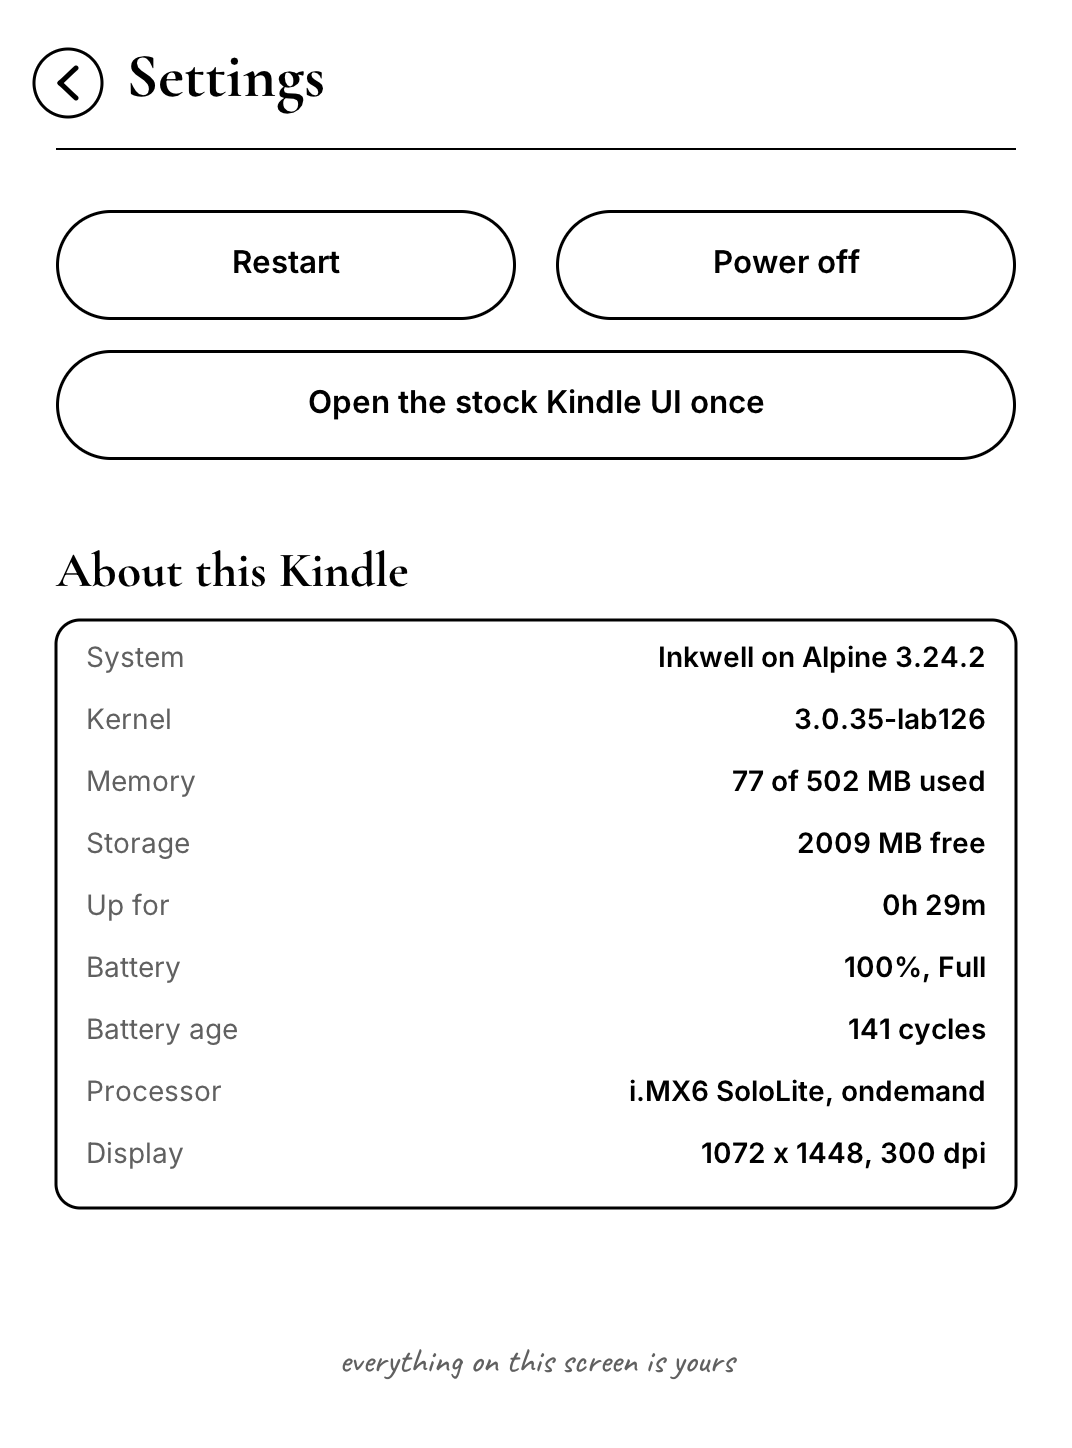
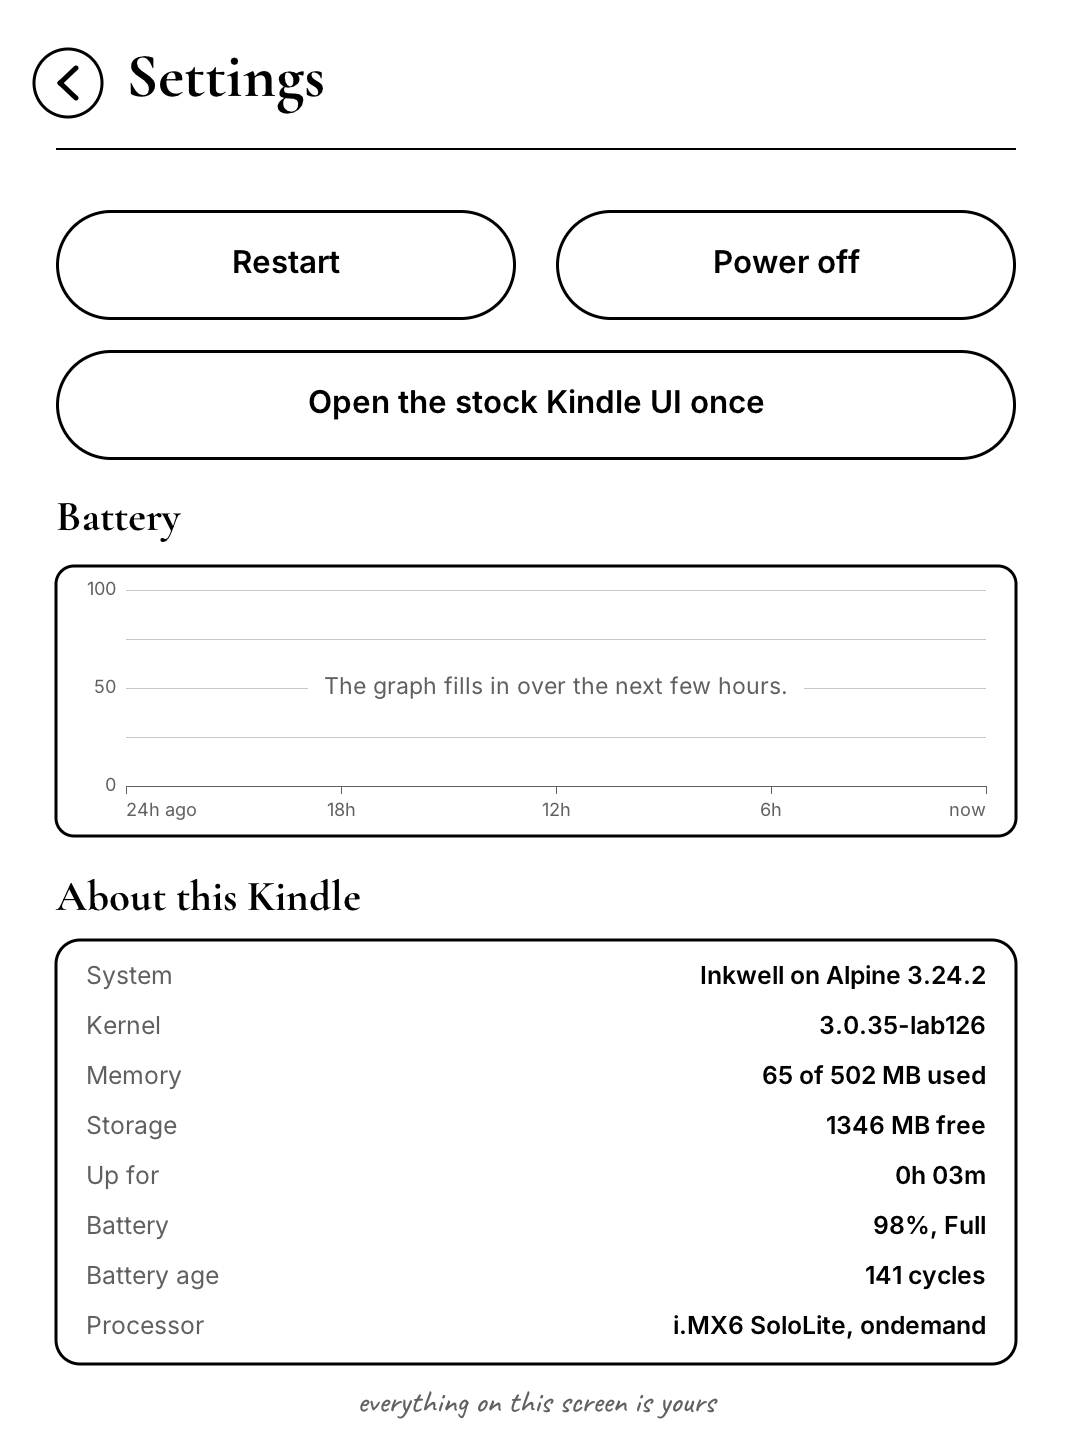
docs: describe Books, arXiv, coding with Quill and the polish

diff --git a/README.md b/README.md
@@ -2,9 +2,9 @@
 
 Inkwell is a small Linux system of its own for the jailbroken Kindle Paperwhite 3. Amazon's bootloader and kernel still start the device, and everything after that is replaced: the home screen, the apps, Wi-Fi, USB networking and SSH all come from an Alpine Linux userspace built for the e-ink panel.
 
-It has a chatbot called Quill that runs a language model on the Kindle itself with no internet. It also plays Doom, chess and the first version of Minecraft, and it has a terminal, a reading web browser, notes, a sketchpad and a falling-block game called TriKing. You install it by copying one folder to the Kindle and tapping one item in the library, and one more tap brings the normal Kindle back.
+It has a chatbot called Quill that runs a language model on the Kindle itself with no internet, and in the terminal Quill writes and runs code. It reads EPUB and PDF books, keeps arXiv papers for reading offline, and plays Doom, chess and the first version of Minecraft. It also has a reading web browser, notes, a sketchpad and a falling-block game called TriKing. You install it by copying one folder to the Kindle and tapping one item in the library, and one more tap brings the normal Kindle back.
 
-<p align="center"><img src="docs/images/home.png" width="380" alt="The Inkwell home screen with a serif clock, nine app icons and a frontlight slider"></p>
+<p align="center"><img src="docs/images/home.png" width="380" alt="The Inkwell home screen with a serif clock, thirteen app icons and a frontlight slider"></p>
 
 These clips are from a real Kindle Paperwhite 3. Some are sped up, and each caption says by how much.
 
@@ -21,22 +21,29 @@ These clips are from a real Kindle Paperwhite 3. Some are sped up, and each capt
 ## What is on it
 
 - **Quill** is a chatbot that runs SmolLM2 through llama.cpp on the Kindle's own processor. It writes its answer word by word at about 1.7 words per second with the quick model, and a slower smart model can be added. Nothing leaves the device.
+- **Books** reads EPUB, PDF, MOBI, FB2 and text files from the `documents` folder through MuPDF. Books reflow to eight font sizes, and PDFs are shown with their margins trimmed, or in a Columns mode that cuts a two-column paper into strips the width of the screen. You tap the right of the page to go on and the left to go back. The top opens a page slider, the table of contents and bookmarks, and every book reopens on the page where you left it.
+- **arXiv** fetches a paper by its number, such as `1706.03762`, and shows its title, authors and abstract. **Save offline** downloads the PDF to the `arxiv` folder and opens it in Books, and saved papers stay listed for reading without Wi-Fi.
 - **Doom** is the original shareware episode. The game is drawn into the top of the screen, dithered to black and white so each frame can use the fastest refresh, and played with an on-screen d-pad, Fire and Use buttons.
 - **Minecraft** is rd-132211, the first version of Minecraft from 2009, through [rdgeneric](https://github.com/pragyaangaur/Can-It-Run-Minecraft). You can walk, dig and place blocks.
 - **TriKing** is a falling-block game where every piece has three cells. You tap the board to rotate, drag to move and flick down to drop.
 - **Browser** fetches a page, keeps the headings, paragraphs and links, and lays them out as pages you turn. It searches with Bing.
 - **Chess** plays against Inkwell's own engine, a small alpha-beta search written for this processor. Easy answers at once, Medium thinks for up to two seconds and Hard for up to six. You can play either colour and take moves back, and the game is saved to the `chess` folder, so you can carry on later.
-- **Terminal** runs a shell on the Kindle with an extra row of keys for Esc, Tab, Ctrl and the arrows. It handles full-screen programs such as `vi` and `top`, and `ssh` connects to the computer on the other end of the USB cable. Hiding the keyboard shows the whole screen.
+- **Terminal** runs a shell on the Kindle with an extra row of keys for Esc, Tab, Ctrl and the arrows. It handles full-screen programs such as `vi` and `top`, and `ssh` connects to the computer on the other end of the USB cable. Hiding the keyboard shows the whole screen. Python 3 is installed.
+- **Quill in the terminal.** Typing `quill` there starts a coding assistant. You ask for a program in plain words, `/run` runs the code from the last answer with Python or `sh`, `/fix` sends its error back for a corrected version, `/save` writes it to a file and `/read` shows Quill one of your files. It uses Qwen2.5 Coder 0.5B when that model is installed, which writes about half a word per second, so a short program takes a few minutes.
 - **Notes** saves plain text files to the `notes` folder on the Kindle's drive, so you can read them on a computer.
 - **Sketch** is a drawing pad that saves pictures to the `sketches` folder.
 - **Wi-Fi** scans for networks and joins them with the on-screen keyboard.
-- **Settings** restarts or powers off the Kindle, opens the normal Kindle UI once, and shows the battery, memory and storage.
+- **Settings** restarts or powers off the Kindle, opens the normal Kindle UI once, draws the battery over the last day, and shows memory and storage.
 
-The home screen also has a clock, the date, the battery and a frontlight slider. The Kindle sleeps after 15 minutes on the home screen or when you press the power button there, and it shows a night sky while it sleeps.
+The home screen also has a clock, the date, the battery and a frontlight slider. To move an app, drag it onto another place. The Kindle sleeps after 15 minutes without a touch in any app, or when you press the power button on the home screen or in Books, and it shows a night sky while it sleeps. When it wakes, the app is just as you left it. With Wi-Fi on, the clock sets itself from the network.
 
-| Chess | Terminal |
-| :---: | :---: |
-| <img src="docs/images/chess.png" width="300" alt="A chess game in the opening, with Inkwell having played Nc6"> | <img src="docs/images/terminal.png" width="300" alt="The terminal running top, with the extra keys above the keyboard"> |
+| Books | arXiv | PDF in Columns mode |
+| :---: | :---: | :---: |
+| <img src="docs/images/books.png" width="250" alt="A page of Alice in Wonderland in Books"> | <img src="docs/images/arxiv.png" width="250" alt="The arXiv page for Attention Is All You Need with its abstract and a Save offline button"> | <img src="docs/images/pdf-columns.png" width="250" alt="A paper's introduction zoomed to the full width of the screen"> |
+
+| Chess | Terminal | Settings |
+| :---: | :---: | :---: |
+| <img src="docs/images/chess.png" width="250" alt="A chess game in the opening, with Inkwell having played Nc6"> | <img src="docs/images/terminal.png" width="250" alt="The terminal running top, with the extra keys above the keyboard"> | <img src="docs/images/settings.png" width="250" alt="Settings with a graph of the battery over the last day"> |
 
 | Quill | TriKing | Sleep screen | Notes | Settings |
 | :---: | :---: | :---: | :---: | :---: |
@@ -52,21 +59,25 @@ You need a **Kindle Paperwhite 3** (the 7th generation, from 2015) that is alrea
 4. Eject the Kindle and unplug it.
 5. Open the Kindle's library and tap **Inkwell: install**.
 
-The Kindle reboots, shows the Inkwell splash for a moment and opens the home screen within about 20 seconds. Release 1.0.0 has every app above except Chess and Terminal, which are in this repository and will be in the next release. From then on it starts Inkwell every time it boots.
+The Kindle reboots, shows the Inkwell splash for a moment and opens the home screen within about 20 seconds. Release 1.0.0 has every app above except Books, arXiv, Chess, Terminal and coding with Quill, which are in this repository and will be in the next release. From then on it starts Inkwell every time it boots.
 
 ## Use
 
 Tap an app to open it, and tap the round arrow in the top left corner to go back. In Quill and the three games the power button also goes back to the home screen. On the home screen the power button puts the Kindle to sleep, and pressing it again wakes it.
 
-**Wi-Fi.** Open Wi-Fi, tap **Scan**, tap your network and type its password. Inkwell remembers it in `linux/wifi.conf` and joins it at every boot. Wi-Fi is only needed for the browser.
+**Wi-Fi.** Open Wi-Fi, tap **Scan**, tap your network and type its password. Inkwell remembers it in `linux/wifi.conf` and joins it at every boot. Wi-Fi is needed for the browser, arXiv and setting the clock.
 
 **The smart model.** Quill comes with the quick model (135 million parameters). The release also has `smollm2-360m-q4_0.gguf`, which knows more and writes about 0.7 words per second. Put that file in the `linux/models` folder on the Kindle's drive, and the **quick** button in Quill then switches between the two. The first chat with each model takes a little longer while Quill prepares it.
+
+**The coding model.** For coding in the terminal, put `qwen2.5-coder-0.5b-q4_0.gguf` in `linux/models` too. It is the Q4_0 file of [Qwen2.5 Coder 0.5B Instruct](https://huggingface.co/bartowski/Qwen2.5-Coder-0.5B-Instruct-GGUF), renamed, and `tools/get-models.sh` downloads it. Without it, `quill` in the terminal uses the SmolLM2 models, which are much weaker at code. `QUILL_MODEL=quick quill` picks the fast 135M model anyway, and `smart` or `coder` pick the others. On the Kindle, the coder model wrote a correct Fibonacci program in about ten minutes, three of them spent preparing its prompt the first time.
+
+**Books.** Copy EPUB, PDF, MOBI, FB2 or text files into the `documents` folder on the Kindle's drive, and they appear in Books. Your place, font size and bookmarks for each book are kept in `linux/reader`.
 
 **The time zone.** Inkwell uses UTC until you tell it otherwise. Open `linux/timezone` on the Kindle's drive and replace `UTC` with your zone name, for example `Europe/London`, `America/New_York` or `Asia/Kolkata`. It takes effect at the next boot.
 
 **SSH to your computer.** On a Mac, turn on Remote Login in System Settings, under General and then Sharing. In the Terminal app, `ssh yourname@192.168.15.201` then connects to the Mac over the USB cable. The address is the one Inkwell hands the computer, and Linux computers work the same way with their SSH server running.
 
-**Your files.** Notes are in `notes`, sketches are in `sketches` and Doom saves are in `doom` on the Kindle's drive. While Inkwell runs, the USB port is a network link, so to reach the drive you open the normal Kindle UI once (below) and plug in the cable.
+**Your files.** Notes are in `notes`, sketches are in `sketches`, arXiv papers are in `arxiv`, chess games are in `chess` and Doom saves are in `doom` on the Kindle's drive. While Inkwell runs, the USB port is a network link, so to reach the drive you open the normal Kindle UI once (below) and plug in the cable.
 
 ## Going back to the normal Kindle
 
@@ -131,6 +142,8 @@ Quill's model runs in `inkllm`, a small program around llama.cpp that Quill talk
 - **Half floats on the Cortex-A9.** Clang defines `__ARM_FP16_FORMAT_IEEE` on every 32-bit Arm target, so ggml converted each block's fp16 scale through a software routine. The A9 has no half-precision hardware. `build-llm.sh` patches ggml to require real fp16 support (`__ARM_FP & 2`), and that doubled the speed. Afterwards the 135M model makes 1.7 tokens per second and reads prompts at 4.4 tokens per second, and the 360M model makes 0.72 tokens per second. The KV cache is f32 for the same reason.
 - **Touch input.** The kernel drops a coordinate that has not changed, so a finger landing exactly where the last one lifted sends no position. Inkwell counts a new tracking id as movement. Taps also arrive in bursts while the panel refreshes, so input is queued, since keeping only the first tap lost keystrokes.
 - **Boot time.** The home screen appears about 15.9 seconds after the kernel starts. About 14 seconds of that is Amazon's hardware jobs, and loading the display waveforms alone takes about 3 seconds. Inkwell loads its drivers while the splash is showing and starts networking after the home screen, and it switches the CPU to the `ondemand` governor, since Amazon keeps it at full speed until its own home screen loads. Inkwell uses about 40 MB of the 512 MB of memory.
+- **Touches across apps.** The kernel only reports a coordinate when it changes. While one app runs another, the first one's input stream fills with the second one's touches, and throwing those away on return left it with a stale position. A tap on the same spot as the last tap in the other app then went to the wrong place. Each app now follows the finger through those touches without acting on them, and writes the last position to `/run/own/touch` for the next app that starts.
+- **MuPDF on a pipe.** Books keeps one `mutool run` process open and talks to it line by line. On a pipe the C library held its answers in a buffer until it quit, so its output goes through a pseudo-terminal, which is flushed at every line.
 - **Where not to mount.** Amazon's boot jobs give everything under `/var/tmp` to `javauser` with group-writable modes, which breaks SSH's key checks and exec bits. The image is mounted at `/mnt/own` instead.
 
 ## Build it yourself
